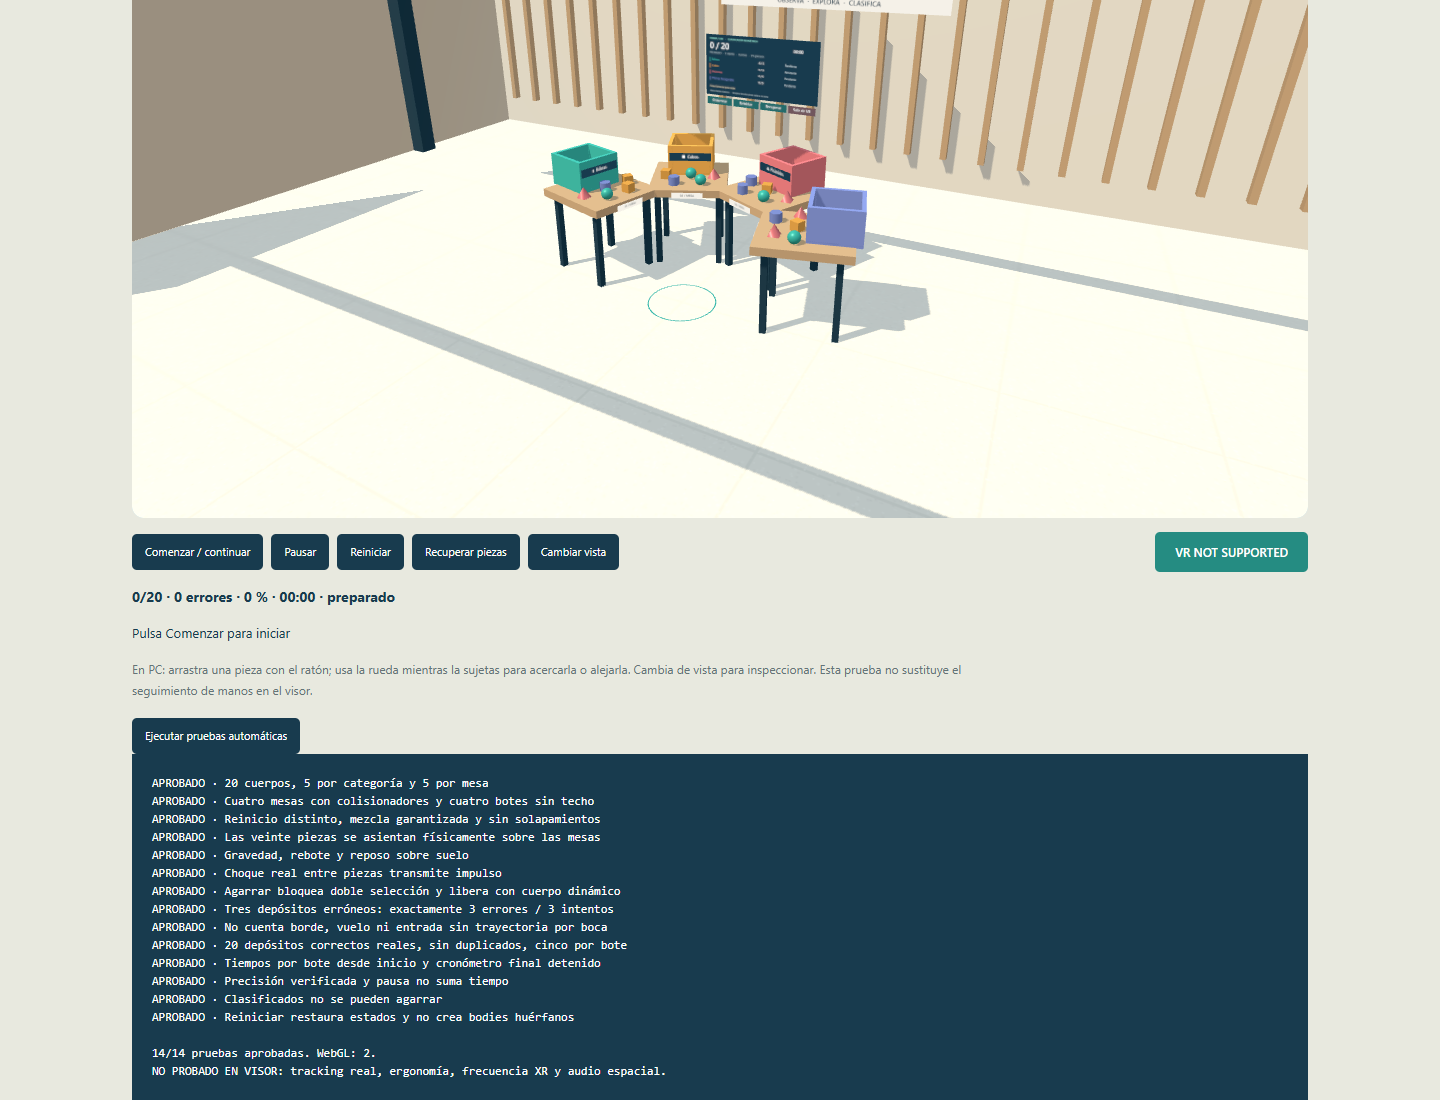
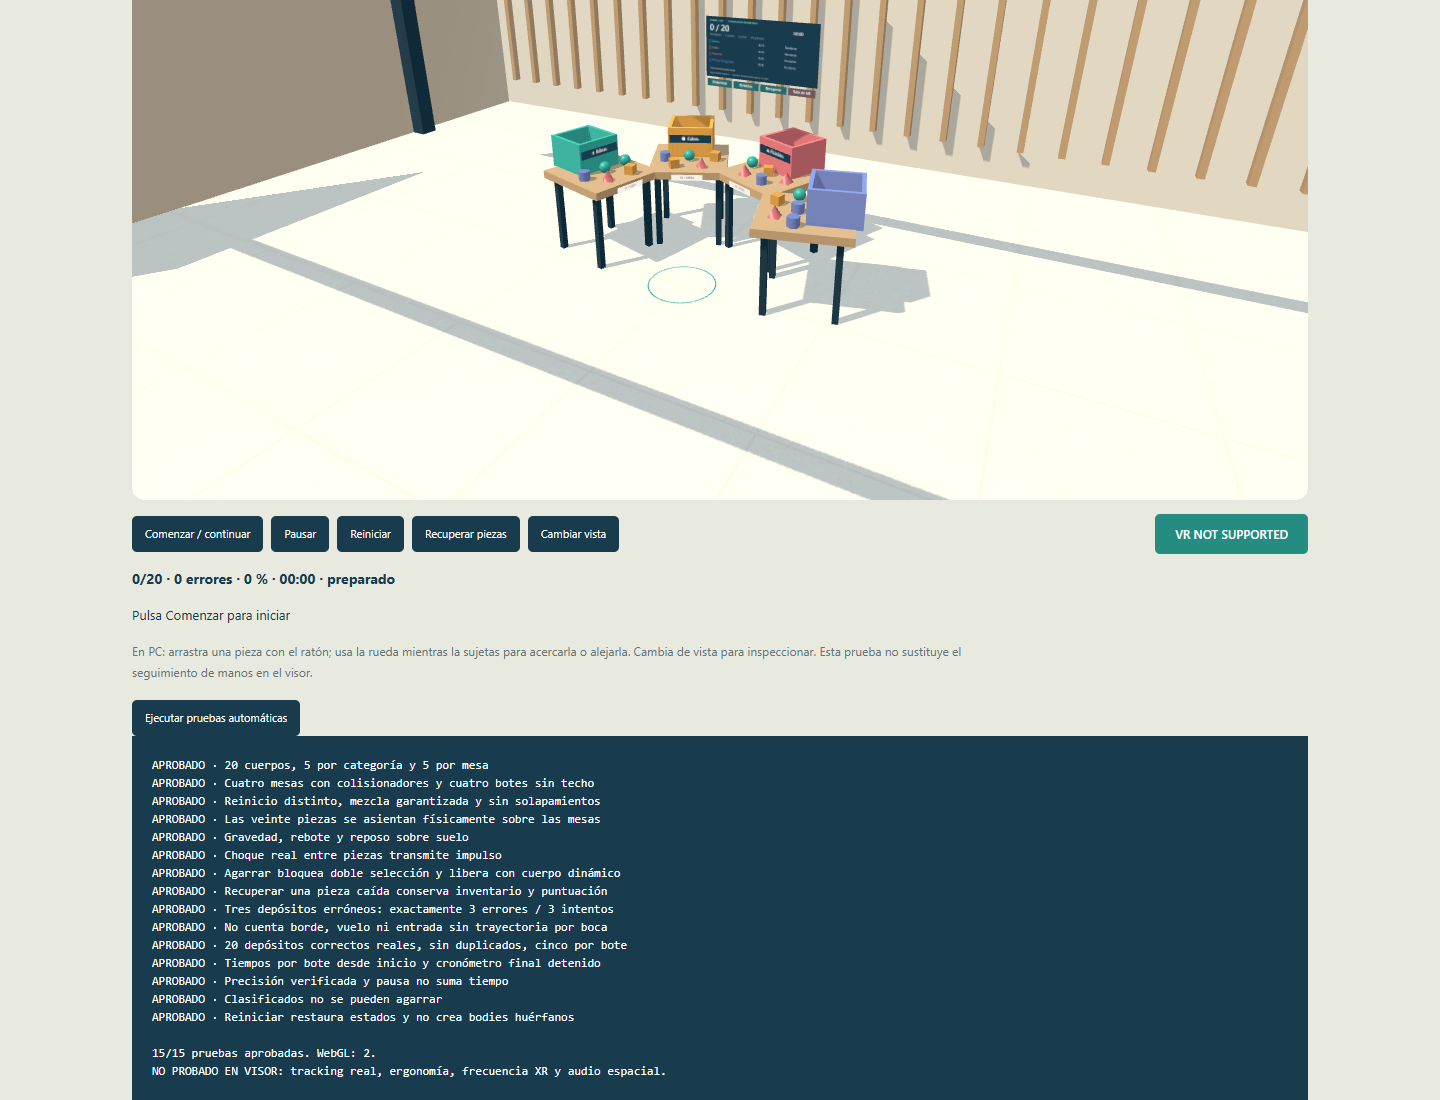
Verificar recuperación física y preparar validación de Pages público

Changed region(s): [[0.0938, 0.0, 0.9062, 0.4945], [0.0938, 0.4636, 0.9062, 0.8345], [0.7812, 0.4636, 0.9062, 0.5255]]

diff --git a/tests/suite.js b/tests/suite.js
@@ -2,7 +2,7 @@ import * as THREE from 'three';
 import * as CANNON from 'cannon-es';
 import { CATEGORIES, SETTINGS, stationPoint } from '../js/config.js';
 import { Game } from '../js/game.js';
-import { place, sync } from '../js/physics.js';
+import { place, sync, updateRecoveryState } from '../js/physics.js';
 export function runTests({world,items,bins,game,reset,interaction,renderer}) {
   const output=document.getElementById('test-results');output.hidden=false;const lines=[], results=[];
   function check(name,test){try{test();lines.push(`APROBADO · ${name}`);results.push({name,pass:true});}catch(e){lines.push(`FALLÓ · ${name}: ${e.message}`);results.push({name,pass:false});}}
@@ -40,6 +40,13 @@ export function runTests({world,items,bins,game,reset,interaction,renderer}) {
     const p=items[0],h=new THREE.Object3D();h.position.copy(p.cuerpoFisico.position);h.updateMatrixWorld(true);sync(items);
     const a=interaction.states[0],b=interaction.states[1];interaction.press(a,p.malla,h);interaction.press(b,p.malla,h);
     assert(a.held===p && !b.held && p.estado==='sujeto');interaction.release(a);assert(p.cuerpoFisico.type===CANNON.Body.DYNAMIC && p.cuerpoFisico.mass===.14 && p.estado==='liberado');
+  });
+  reset();game.start();
+  check('Recuperar una pieza caída conserva inventario y puntuación',()=>{
+    const p=items[0];game.released(p);place(p,{x:3,y:.5,z:1});advance(3);updateRecoveryState(p);
+    assert(p.estado==='recuperable');const score=[game.hits,game.errors,game.attempts].join(',');document.getElementById('recover').click();
+    p.cuerpoFisico.updateAABB();assert(p.estado==='disponible' && Math.abs(p.cuerpoFisico.aabb.lowerBound.y-SETTINGS.tableTop)<.003);
+    assert(items.length===20 && score===[game.hits,game.errors,game.attempts].join(','));
   });
   reset();game.start();
   check('Tres depósitos erróneos: exactamente 3 errores / 3 intentos',()=>{

diff --git a/js/main.js b/js/main.js
@@ -1,7 +1,7 @@
 import * as THREE from 'three';
 import { VRButton } from 'three/addons/webxr/VRButton.js';
 import { SETTINGS, STATIONS, stationPoint, localPoint } from './config.js';
-import { createPhysics, createPieces, redistribute, place, sync } from './physics.js';
+import { createPhysics, createPieces, redistribute, place, sync, updateRecoveryState } from './physics.js';
 import { createEnvironment } from './environment.js';
 import { createInteraction } from './interaction.js';
 import { Game } from './game.js';
@@ -74,8 +74,8 @@ export async function initLab() {
             const b=item.cuerpoFisico;
             if(item.holder) {
               for(const bin of bins){const p=localPoint(bin.index,b.position);if(Math.abs(p.x)<SETTINGS.binHalf && Math.abs(p.z+.02)<SETTINGS.binHalf && b.position.y>SETTINGS.binTop+item.radius*.35)item.holder.entered=bin.index;}
-            } else if(item.estado!=='clasificado' && b.position.y<.25){item.estado='recuperable';}
-            if(b.position.y< -1 || Math.abs(b.position.x)>6.5 || Math.abs(b.position.z)>4.5){if(item.holder)interaction.release(item.holder,true);item.estado='recuperable';}
+            }
+            updateRecoveryState(item,interaction.release);
             if(b.velocity.length()>2.4)b.velocity.scale(2.4/b.velocity.length(),b.velocity);
           }
           game.update(SETTINGS.step/2,items,bins,world.contacts,false);

diff --git a/js/physics.js b/js/physics.js
@@ -63,3 +63,10 @@ export function redistribute(items) {
   });
 }
 export function sync(items) { items.forEach(i=>{i.malla.position.copy(i.cuerpoFisico.position);i.malla.quaternion.copy(i.cuerpoFisico.quaternion);}); }
+export function updateRecoveryState(item,release=()=>{}) {
+  const b=item.cuerpoFisico;
+  if(!item.holder && item.estado!=='clasificado' && b.position.y<.25) item.estado='recuperable';
+  if(b.position.y< -1 || Math.abs(b.position.x)>6.5 || Math.abs(b.position.z)>4.5){
+    if(item.holder)release(item.holder,true);item.estado='recuperable';
+  }
+}

diff --git a/tests/headless.py b/tests/headless.py
@@ -2,8 +2,10 @@
 from playwright.sync_api import sync_playwright
 import pathlib,sys,json
 root=pathlib.Path(__file__).resolve().parent.parent
-out=root/'docs'/'evidencias';out.mkdir(parents=True,exist_ok=True)
 url=sys.argv[1] if len(sys.argv)>1 else 'http://localhost:8080/'
+out=root/'docs'/'evidencias'
+if not url.startswith('http://localhost'):out=out/'publico'
+out.mkdir(parents=True,exist_ok=True)
 with sync_playwright() as p:
     browser=p.chromium.launch(channel='msedge',headless=True,args=['--enable-unsafe-swiftshader'])
     page=browser.new_page(viewport={'width':1440,'height':1100},device_scale_factor=1)

diff --git a/docs/VALIDACION.md b/docs/VALIDACION.md
@@ -1,6 +1,6 @@
 # Matriz de aceptación · 18/11/2026
 
-La validación automática usa Edge headless/WebGL2 y física cannon-es real. No representa una sesión inmersiva ni seguimiento real de manos. Resultado técnico local: **14/14 pruebas aprobadas**, cero errores de consola, 39 respuestas HTTP sin fallos y sin desbordamiento horizontal a 390 px. Evidencias: [pruebas](evidencias/pruebas.txt), [captura de pruebas](evidencias/pruebas.png), [Network/Console](evidencias/navegador.json), [portada](evidencias/portada.png), [móvil](evidencias/movil.png), [laboratorio](evidencias/laboratorio.png).
+La validación automática usa Edge headless/WebGL2 y física cannon-es real. No representa una sesión inmersiva ni seguimiento real de manos. El registro reproducible está en [pruebas](evidencias/pruebas.txt), [captura de pruebas](evidencias/pruebas.png), [Network/Console](evidencias/navegador.json), [portada](evidencias/portada.png), [móvil](evidencias/movil.png) y [laboratorio](evidencias/laboratorio.png). Las pruebas públicas se guardan por separado en `evidencias/publico/`.
 
 | # | Requisito | Procedimiento | Esperado | Observado / evidencia | Estado |
 |---|---|---|---|---|---|
@@ -16,7 +16,7 @@ La validación automática usa Edge headless/WebGL2 y física cannon-es real. No
 | 10 | Agarre físico y retorno dinámico | Agarrar en el motor y soltar; comprobar exclusividad y masa | Un solo propietario; cuerpo dinámico con masa | Suite del mecanismo dinámico equivalente al cinemático, masa 0,14 kg | APROBADO en escritorio; NO PROBADO EN VISOR |
 | 11 | Acierto estable y sin doble conteo | Depositar, esperar 0,8 s y repetir contactos | Un acierto por pieza | Suite de 20 depósitos; contactos adicionales no suman | APROBADO |
 | 12 | Tres errores | Soltar tres veces una misma pieza en bote incorrecto | Tres errores, tres intentos, cero aciertos | Suite física de tres depósitos y espera adicional | APROBADO |
-| 13 | Recuperación de pieza caída | En partida, dejar caer pieza; pulsar Recuperar | Vuelve a una mesa libre sin cambiar score ni inventario | Implementado con búsqueda de espacios; falta recorrido interactivo completo de recuperación | NO PROBADO |
+| 13 | Recuperación de pieza caída | Simular caída real, ejecutar detector y pulsar Recuperar | Vuelve a una mesa libre sin cambiar score ni inventario | Suite verifica caída, estado recuperable, botón, nuevo apoyo y puntuación idéntica | APROBADO en escritorio; NO PROBADO EN VISOR |
 | 14 | Total y progresos individuales | Completar suite/partida, comparar contadores | 20/20 y cuatro grupos 5/5 | Suite verifica datos del marcador; HUD visible en captura inicial | APROBADO datos; lectura NO PROBADA EN VISOR |
 | 15 | Precisión, intentos y tiempos | Confirmar errores/aciertos, comparar fórmula y tiempos | Sin intentos 0 %, 2/5 = 40 %, tiempos desde inicio | Suite y código: cuatro tiempos >0, último posterior al primero; tiempos no locales por bote | APROBADO lógica |
 | 16 | Fin detiene reloj | Completar veinte y simular más pasos | Tiempo no crece | Suite: estado completado y tiempo invariable | APROBADO |

diff --git a/README.md b/README.md
@@ -5,7 +5,7 @@ Laboratorio estático de clasificación geométrica para Meta Quest 3: veinte pi
 Evolución de [práctica 3.1 Web-VR](https://alonsorgt1.github.io/Web-VR/). El original `AMBIENTE VR` quedó intacto. Se preservan VRButton, ambas manos, pinza, raycasting, transformación relativa al agarrar, liberación con velocidad reciente, reinicio, salida y créditos. El menú y el arrastre se refactorizaron para la actividad; las manos usan articulaciones procedurales para evitar descargar modelos GLB.
 
 - [Repositorio público](https://github.com/ALONSORGT1/Laboratorio-inmersivo-de-clasificaci-n-geom-trica-con-gravedad-y-colisiones-Meta-Quest-3).
-- [URL prevista de Pages](https://alonsorgt1.github.io/Laboratorio-inmersivo-de-clasificaci-n-geom-trica-con-gravedad-y-colisiones-Meta-Quest-3/): **publicación pendiente de habilitar Pages; no declarar operativa hasta verificar HTTPS**.
+- [Abrir laboratorio en GitHub Pages](https://alonsorgt1.github.io/Laboratorio-inmersivo-de-clasificaci-n-geom-trica-con-gravedad-y-colisiones-Meta-Quest-3/): HTTPS verificado, publicación automática de GitHub completada. Evidencias en `docs/DESPLIEGUE.md`.
 - [LinkedIn del autor](https://www.linkedin.com/in/alonso-ram%C3%ADrez-guti%C3%A9rrez-27074516b/).
 
 ![Portada real de escritorio](docs/evidencias/portada.png)

diff --git a/docs/PLAN.md b/docs/PLAN.md
@@ -30,4 +30,4 @@ Portada y SVG propios; responsive, capacidad XR y carga bajo demanda. Tests repr
 
 ## 7. Publicación
 
-Commit y push al remoto de destino realizados; no se hizo force-push. GitHub Pages necesita configuración de rama. Git tiene autenticación funcional, pero `gh` no tiene sesión y el conector no expone administración de Pages. El navegador controlado se interrumpió, por lo que no se eludieron sus controles. Estado final en `DESPLIEGUE.md`.
+Commit y push al remoto de destino realizados; no se hizo force-push. Git tiene autenticación funcional, pero `gh` no tiene sesión y el conector no expone administración de Pages. El navegador controlado se interrumpió, por lo que no se eludieron sus controles. Posteriormente GitHub informó Pages habilitado y el flujo automático de publicación concluyó correctamente; se comprobó la URL HTTPS real. No se atribuye al agente la habilitación de Pages que no ejecutó ni observó. Estado final en `DESPLIEGUE.md`.
